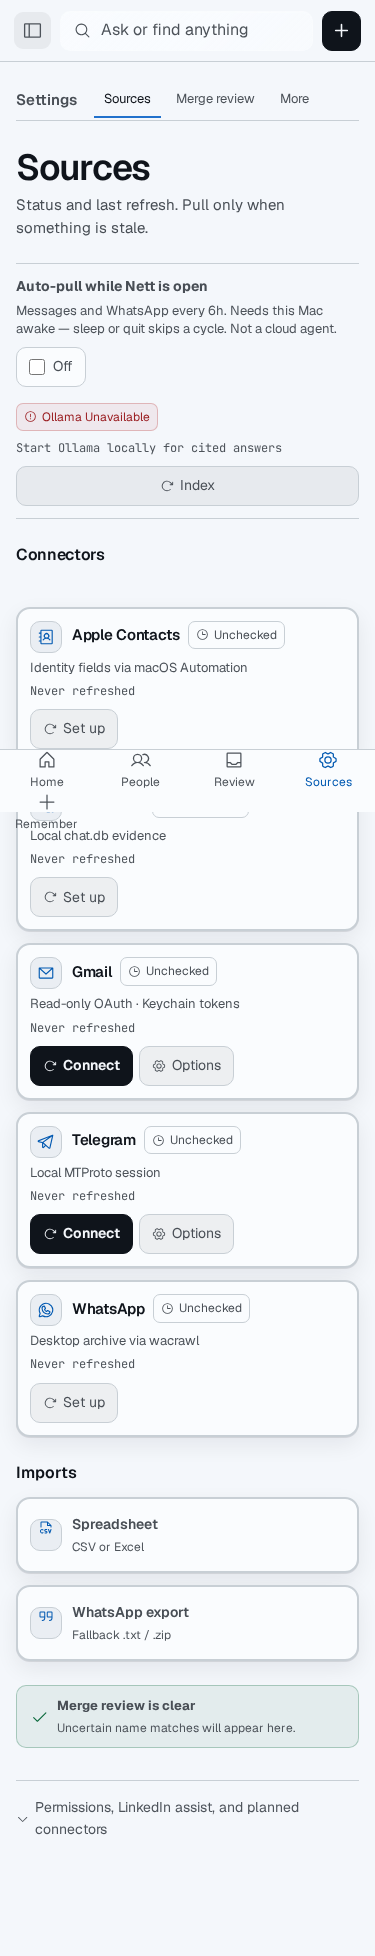
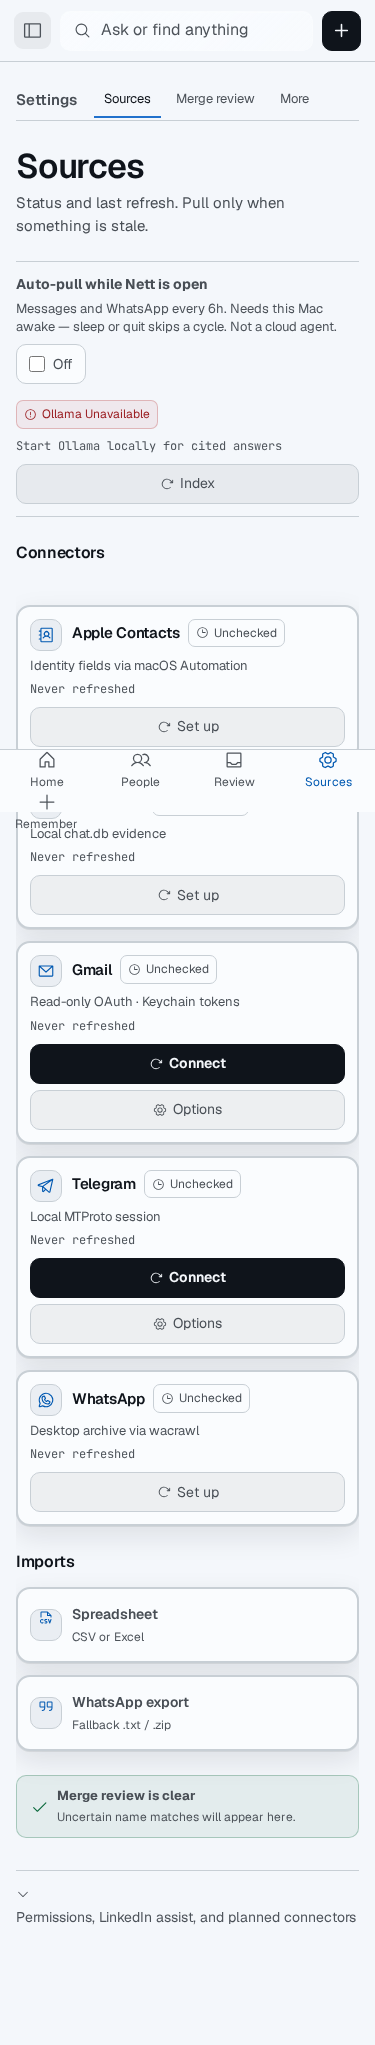
Keep source card actions in a row on narrow widths
Stacking Connect/Options at 560px made the tiles taller without
helping overflow. Screenshots record light and dark at 1440, 375,
and 320.

diff --git a/src/styles/sources.css b/src/styles/sources.css
@@ -442,15 +442,6 @@
   .source-cards {
     grid-template-columns: minmax(0, 1fr);
   }
-
-  .source-card-actions {
-    flex-direction: column;
-  }
-
-  .source-card-actions .primary-button,
-  .source-card-actions .secondary-button {
-    width: 100%;
-  }
 }
 
 @media (pointer: coarse) {
